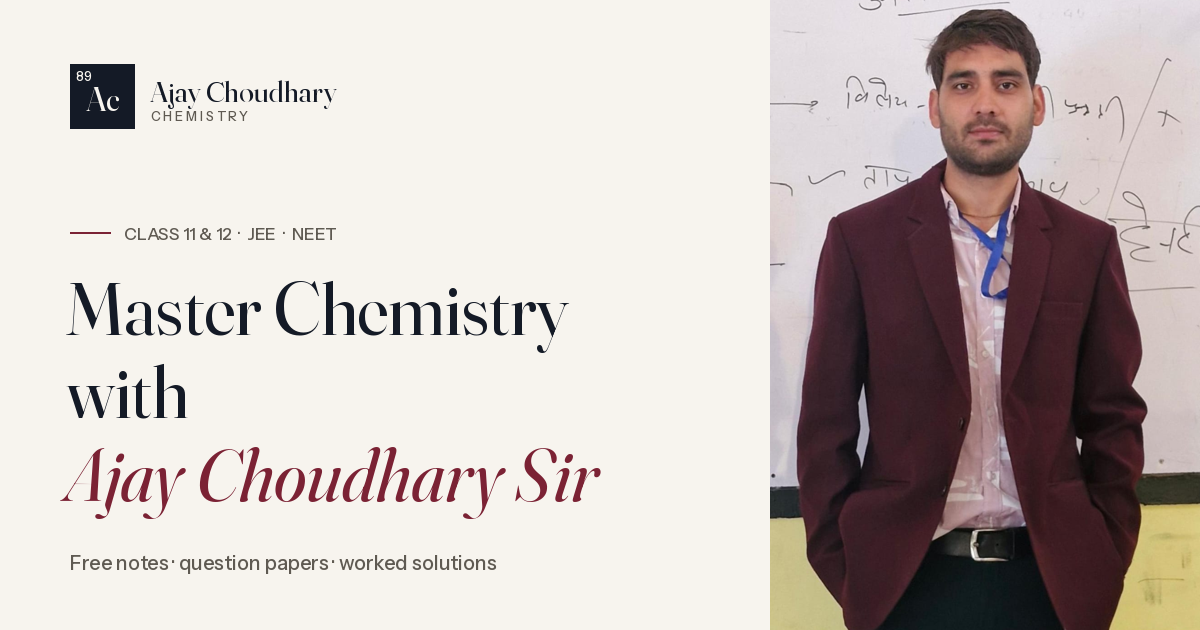
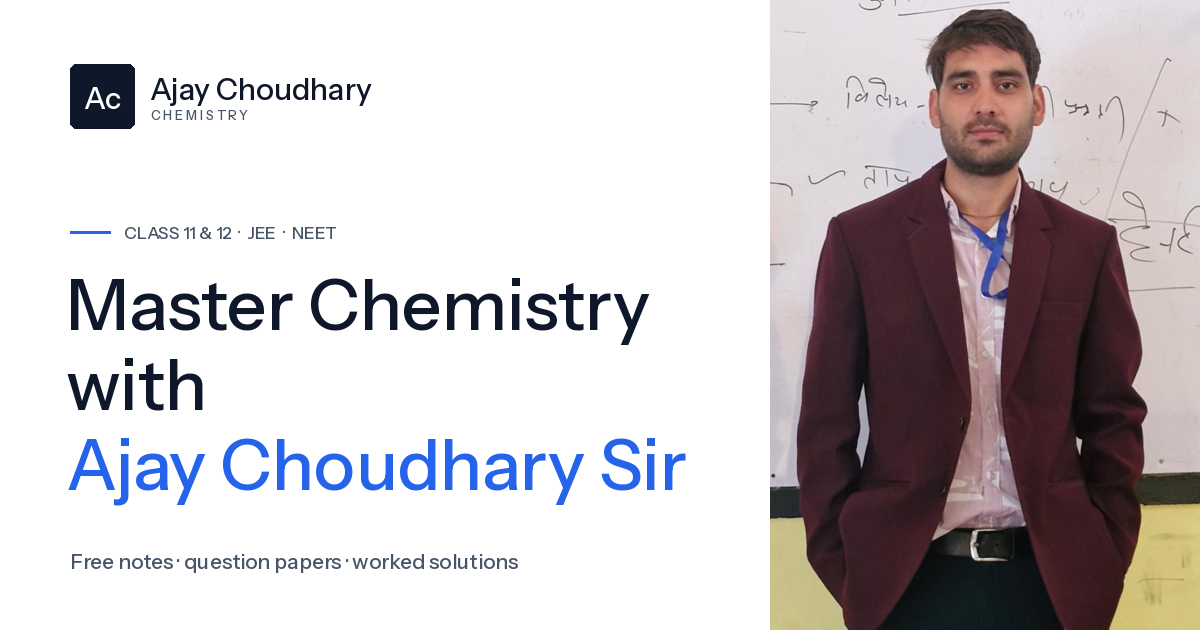
Theme: clean white + blue, sans-serif headings
- White pages, navy text, one friendly blue accent (#2563EB)
- Headings switched from serif to clean sans-serif (Fraunces removed)
- Rounded buttons, inputs and chips; slightly smaller hero heading
- Favicon, app icons and share image updated to the new colours

Claude-Session: https://claude.ai/code/session_017YnH5RP9ABY9PfUbsxK1BX

diff --git a/src/app/globals.css b/src/app/globals.css
@@ -1,9 +1,9 @@
 @import "tailwindcss";
 
 /* =====================================================================
-   Design system — "Ink & Ivory"
-   A restrained, editorial palette: warm ivory paper, deep ink, and a
-   single oxblood accent (picked up from Ajay Sir's blazer in the photos).
+   Design system — "Clean white + blue"
+   White pages, navy text and one friendly blue for buttons and links,
+   with clean sans-serif headings.
    The Tailwind colour scales used across the older inner pages
    (slate / cyan / teal / sky / indigo / blue / purple) are remapped here
    so every page follows the same palette without a rewrite.
@@ -12,81 +12,69 @@
 @theme {
   /* Fonts (CSS variables are set by next/font in layout.tsx) */
   --font-sans: var(--font-body), var(--font-deva), ui-sans-serif, system-ui, sans-serif;
-  --font-display: var(--font-serif), var(--font-deva), Georgia, serif;
+  --font-display: var(--font-body), var(--font-deva), ui-sans-serif, system-ui, sans-serif;
 
-  /* Core tokens */
-  --color-ink: #141a26;
-  --color-ink-soft: #232b3a;
-  --color-paper: #f7f4ee;
-  --color-paper-deep: #efe9df;
-  --color-line: #ddd5c7;
-  --color-muted: #5f5a52;
-  --color-accent: #7b2234;
-  --color-accent-deep: #5f1a28;
-  --color-accent-soft: #f2e5e2;
-  --color-brass: #b3925f;
+  /* Core tokens — clean white, navy text, one friendly blue */
+  --color-ink: #0f172a;
+  --color-ink-soft: #1e293b;
+  --color-paper: #ffffff;
+  --color-paper-deep: #f5f8fc;
+  --color-line: #e2e8f0;
+  --color-muted: #475569;
+  --color-accent: #2563eb;
+  --color-accent-deep: #1d4ed8;
+  --color-accent-soft: #eff6ff;
+  --color-brass: #60a5fa;
 
-  /* Neutral scale: warm, ink-leaning greys */
-  --color-slate-50: #f7f4ee;
-  --color-slate-100: #efe9df;
-  --color-slate-200: #e2dbcf;
-  --color-slate-300: #cdc5b8;
-  --color-slate-400: #9d968b;
-  --color-slate-500: #77716a;
-  --color-slate-600: #5f5a52;
-  --color-slate-700: #3f4350;
-  --color-slate-800: #2a3140;
-  --color-slate-900: #1b2230;
-  --color-slate-950: #141a26;
+  /* Neutral scale (cool slate) */
+  --color-slate-50: #f8fafc;
+  --color-slate-100: #f1f5f9;
+  --color-slate-200: #e2e8f0;
+  --color-slate-300: #cbd5e1;
+  --color-slate-400: #94a3b8;
+  --color-slate-500: #64748b;
+  --color-slate-600: #475569;
+  --color-slate-700: #334155;
+  --color-slate-800: #1e293b;
+  --color-slate-900: #0f172a;
+  --color-slate-950: #0b1220;
 
-  /* Accent scale (oxblood) — replaces cyan / teal / sky / indigo / blue / purple */
-  --color-cyan-50: #faf3f1;  --color-cyan-100: #f2e5e2; --color-cyan-200: #e5c9c4;
-  --color-cyan-300: #d6a9a2; --color-cyan-400: #c98f88; --color-cyan-500: #a3404f;
-  --color-cyan-600: #7b2234; --color-cyan-700: #6a1d2d; --color-cyan-800: #5a1826;
-  --color-cyan-900: #3d1019; --color-cyan-950: #2a0b11;
+  /* One accent family: cyan / teal / sky / indigo / purple all follow blue */
+  --color-cyan-50: #eff6ff;  --color-cyan-100: #dbeafe; --color-cyan-200: #bfdbfe;
+  --color-cyan-300: #93c5fd; --color-cyan-400: #60a5fa; --color-cyan-500: #3b82f6;
+  --color-cyan-600: #2563eb; --color-cyan-700: #1d4ed8; --color-cyan-800: #1e40af;
+  --color-cyan-900: #1e3a8a; --color-cyan-950: #172554;
 
-  --color-teal-50: #faf3f1;  --color-teal-100: #f2e5e2; --color-teal-200: #e5c9c4;
-  --color-teal-300: #d6a9a2; --color-teal-400: #c98f88; --color-teal-500: #a3404f;
-  --color-teal-600: #7b2234; --color-teal-700: #6a1d2d; --color-teal-800: #5a1826;
-  --color-teal-900: #3d1019; --color-teal-950: #2a0b11;
+  --color-teal-50: #eff6ff;  --color-teal-100: #dbeafe; --color-teal-200: #bfdbfe;
+  --color-teal-300: #93c5fd; --color-teal-400: #60a5fa; --color-teal-500: #3b82f6;
+  --color-teal-600: #2563eb; --color-teal-700: #1d4ed8; --color-teal-800: #1e40af;
+  --color-teal-900: #1e3a8a; --color-teal-950: #172554;
 
-  --color-sky-50: #faf3f1;  --color-sky-100: #f2e5e2; --color-sky-200: #e5c9c4;
-  --color-sky-300: #d6a9a2; --color-sky-400: #c98f88; --color-sky-500: #a3404f;
-  --color-sky-600: #7b2234; --color-sky-700: #6a1d2d; --color-sky-800: #5a1826;
-  --color-sky-900: #3d1019; --color-sky-950: #2a0b11;
+  --color-sky-50: #eff6ff;  --color-sky-100: #dbeafe; --color-sky-200: #bfdbfe;
+  --color-sky-300: #93c5fd; --color-sky-400: #60a5fa; --color-sky-500: #3b82f6;
+  --color-sky-600: #2563eb; --color-sky-700: #1d4ed8; --color-sky-800: #1e40af;
+  --color-sky-900: #1e3a8a; --color-sky-950: #172554;
 
-  --color-blue-50: #faf3f1;  --color-blue-100: #f2e5e2; --color-blue-200: #e5c9c4;
-  --color-blue-300: #d6a9a2; --color-blue-400: #c98f88; --color-blue-500: #a3404f;
-  --color-blue-600: #7b2234; --color-blue-700: #6a1d2d; --color-blue-800: #5a1826;
-  --color-blue-900: #3d1019; --color-blue-950: #2a0b11;
+  --color-indigo-50: #eff6ff;  --color-indigo-100: #dbeafe; --color-indigo-200: #bfdbfe;
+  --color-indigo-300: #93c5fd; --color-indigo-400: #60a5fa; --color-indigo-500: #3b82f6;
+  --color-indigo-600: #2563eb; --color-indigo-700: #1d4ed8; --color-indigo-800: #1e40af;
+  --color-indigo-900: #1e3a8a; --color-indigo-950: #172554;
 
-  /* Secondary scale (brass) — replaces indigo / purple */
-  --color-indigo-50: #f8f3ea;  --color-indigo-100: #f0e6d4; --color-indigo-200: #e2cfae;
-  --color-indigo-300: #d2b88a; --color-indigo-400: #c4a574; --color-indigo-500: #b3925f;
-  --color-indigo-600: #8f734a; --color-indigo-700: #74603f; --color-indigo-800: #5b4b33;
-  --color-indigo-900: #3f3424; --color-indigo-950: #2a2318;
+  --color-purple-50: #eff6ff;  --color-purple-100: #dbeafe; --color-purple-200: #bfdbfe;
+  --color-purple-300: #93c5fd; --color-purple-400: #60a5fa; --color-purple-500: #3b82f6;
+  --color-purple-600: #2563eb; --color-purple-700: #1d4ed8; --color-purple-800: #1e40af;
+  --color-purple-900: #1e3a8a; --color-purple-950: #172554;
 
-  --color-purple-50: #f8f3ea;  --color-purple-100: #f0e6d4; --color-purple-200: #e2cfae;
-  --color-purple-300: #d2b88a; --color-purple-400: #c4a574; --color-purple-500: #b3925f;
-  --color-purple-600: #8f734a; --color-purple-700: #74603f; --color-purple-800: #5b4b33;
-  --color-purple-900: #3f3424; --color-purple-950: #2a2318;
-
-  /* Positive state: muted forest instead of neon emerald */
-  --color-emerald-50: #eef4ef;  --color-emerald-100: #dbe8de; --color-emerald-200: #b9d2bf;
-  --color-emerald-300: #92b79b; --color-emerald-400: #6f9c7a; --color-emerald-500: #4f8060;
-  --color-emerald-600: #3b6a4b; --color-emerald-700: #2f563d; --color-emerald-800: #254431;
-  --color-emerald-900: #1a3023; --color-emerald-950: #0f1f16;
-
-  /* Calmer geometry: smaller radii, softer shadows, slightly larger small text */
-  --radius-lg: 0.375rem;
-  --radius-xl: 0.5rem;
-  --radius-2xl: 0.625rem;
-  --radius-3xl: 0.875rem;
+  /* Calm geometry: soft radii and light shadows; small text bumped for readability */
+  --radius-lg: 0.5rem;
+  --radius-xl: 0.625rem;
+  --radius-2xl: 0.75rem;
+  --radius-3xl: 1rem;
   --text-xs: 0.8125rem;
   --text-xs--line-height: 1.55;
-  --shadow-lg: 0 6px 20px -8px rgb(20 26 38 / 0.18);
-  --shadow-xl: 0 12px 30px -12px rgb(20 26 38 / 0.22);
-  --shadow-2xl: 0 24px 48px -20px rgb(20 26 38 / 0.28);
+  --shadow-lg: 0 6px 20px -8px rgb(15 23 42 / 0.12);
+  --shadow-xl: 0 12px 30px -12px rgb(15 23 42 / 0.16);
+  --shadow-2xl: 0 24px 48px -20px rgb(15 23 42 / 0.22);
 }
 
 @layer base {
@@ -108,7 +96,7 @@
 
   ::-webkit-scrollbar { width: 10px; height: 10px; }
   ::-webkit-scrollbar-track { background: var(--color-paper-deep); }
-  ::-webkit-scrollbar-thumb { background: #c9c0b1; border-radius: 6px; border: 2px solid var(--color-paper-deep); }
+  ::-webkit-scrollbar-thumb { background: #cbd5e1; border-radius: 6px; border: 2px solid var(--color-paper-deep); }
 }
 
 /* ---------------------------------------------------------------------
@@ -117,17 +105,23 @@
    --------------------------------------------------------------------- */
 h1, h2 {
   font-family: var(--font-display);
-  font-weight: 450 !important;
-  letter-spacing: -0.02em;
-  font-variation-settings: "opsz" 96;
+  font-weight: 650 !important;
+  letter-spacing: -0.025em;
+}
+
+/* Simple, upright headings and quotes everywhere */
+h1 em, h2 em {
+  font-style: normal;
+}
+.font-display.italic {
+  font-style: normal;
+  font-weight: 500;
 }
 
 /* Legacy gradient-text highlights become an italic serif accent */
 .bg-clip-text.text-transparent {
   background-image: none !important;
-  color: inherit !important;
-  font-style: italic;
-  font-family: var(--font-display);
+  color: var(--color-accent) !important;
 }
 
 /* Tiny legacy text sizes are bumped for readability on phones */
@@ -174,6 +168,8 @@ h1, h2 {
    --------------------------------------------------------------------- */
 .font-display {
   font-family: var(--font-display);
+  font-weight: 600;
+  letter-spacing: -0.015em;
 }
 
 .eyebrow {
@@ -223,4 +219,14 @@ h1, h2 {
 
 @media print {
   .no-print { display: none !important; }
+}
+
+/* Friendly rounded buttons, inputs and chips */
+:is(a, button):is(.bg-accent, .bg-ink, .bg-paper),
+:is(a, button).border.border-ink,
+[role="group"] > button,
+label > span.border,
+label.border-b + *,
+input.border, select.border, textarea.border {
+  border-radius: 0.5rem;
 }

diff --git a/src/app/layout.tsx b/src/app/layout.tsx
@@ -1,18 +1,11 @@
 import type { Metadata } from "next";
-import { Fraunces, Instrument_Sans, Noto_Sans_Devanagari } from "next/font/google";
+import { Instrument_Sans, Noto_Sans_Devanagari } from "next/font/google";
 import "./globals.css";
 import Navbar from "@/components/layout/Navbar";
 import Footer from "@/components/layout/Footer";
 import AnnouncementBanner from "@/components/layout/AnnouncementBanner";
 import { ToastProvider } from "@/context/ToastContext";
 import { LanguageProvider } from "@/context/LanguageContext";
-
-const display = Fraunces({
-  subsets: ["latin"],
-  variable: "--font-serif",
-  axes: ["opsz"],
-  display: "swap",
-});
 
 const body = Instrument_Sans({
   subsets: ["latin"],
@@ -66,7 +59,7 @@ export default function RootLayout({
   children: React.ReactNode;
 }) {
   return (
-    <html lang="en" className={`${display.variable} ${body.variable} ${devanagari.variable} font-sans`}>
+    <html lang="en" className={`${body.variable} ${devanagari.variable} font-sans`}>
       <body className="min-h-screen flex flex-col bg-paper text-ink">
         <LanguageProvider>
           <ToastProvider>

diff --git a/src/components/home/premium/HeroSection.tsx b/src/components/home/premium/HeroSection.tsx
@@ -27,11 +27,11 @@ export default function HeroSection() {
             </p>
 
             <h1
-              className="mt-7 text-[2.9rem] sm:text-6xl lg:text-[5.25rem] leading-[1.02] text-ink rise-in rise-in-delay-1"
+              className="mt-7 text-[2.6rem] sm:text-6xl lg:text-[4.4rem] leading-[1.05] text-ink rise-in rise-in-delay-1"
               style={{ fontVariationSettings: '"opsz" 144' }}
             >
               {t.hero.titleLine1}{' '}
-              <em className="block text-accent italic">{t.hero.titleHighlight}</em>
+              <em className="block text-accent">{t.hero.titleHighlight}</em>
             </h1>
 
             <p className="mt-7 max-w-xl text-[1.075rem] sm:text-lg leading-relaxed text-muted rise-in rise-in-delay-2">
